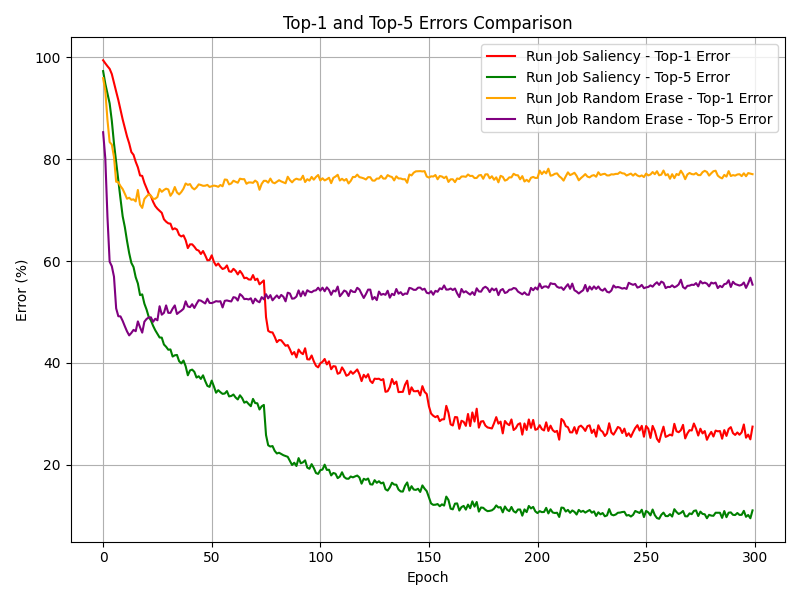
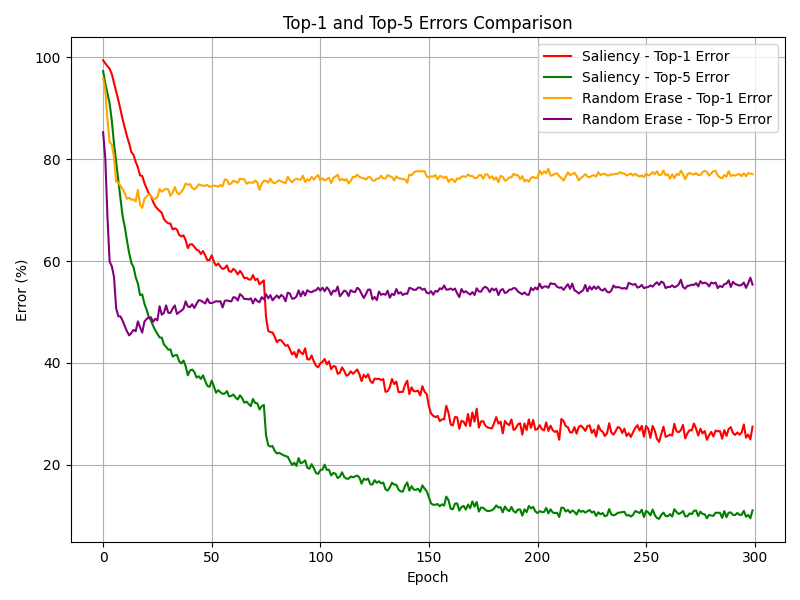
eval_plots

Changed region(s): [[0.5938, 0.06, 0.9688, 0.21]]

diff --git a/compare_plots.py b/compare_plots.py
@@ -30,8 +30,8 @@ def convert_error_to_accuracy(top1_err, top5_err):
 # Function to plot loss
 def plot_loss(epochs1, loss1, epochs2, loss2, output_path):
     plt.figure(figsize=(8, 6))
-    plt.plot(epochs1, loss1, label="Run Job Saliency - Loss", color="blue")
-    plt.plot(epochs2, loss2, label="Run Job Random Erase - Loss", color="orange")
+    plt.plot(epochs1, loss1, label="Saliency - Loss", color="blue")
+    plt.plot(epochs2, loss2, label="Random Erase - Loss", color="orange")
     plt.xlabel("Epoch")
     plt.ylabel("Loss")
     plt.title("Train Loss Comparison")
@@ -45,10 +45,10 @@ def plot_loss(epochs1, loss1, epochs2, loss2, output_path):
 # Function to plot errors
 def plot_error(epochs1, top1_err1, top5_err1, epochs2, top1_err2, top5_err2, output_path):
     plt.figure(figsize=(8, 6))
-    plt.plot(epochs1, top1_err1, label="Run Job Saliency - Top-1 Error", color="red")
-    plt.plot(epochs1, top5_err1, label="Run Job Saliency - Top-5 Error", color="green")
-    plt.plot(epochs2, top1_err2, label="Run Job Random Erase - Top-1 Error", color="orange")
-    plt.plot(epochs2, top5_err2, label="Run Job Random Erase - Top-5 Error", color="purple")
+    plt.plot(epochs1, top1_err1, label="Saliency - Top-1 Error", color="red")
+    plt.plot(epochs1, top5_err1, label="Saliency - Top-5 Error", color="green")
+    plt.plot(epochs2, top1_err2, label="Random Erase - Top-1 Error", color="orange")
+    plt.plot(epochs2, top5_err2, label="Random Erase - Top-5 Error", color="purple")
     plt.xlabel("Epoch")
     plt.ylabel("Error (%)")
     plt.title("Top-1 and Top-5 Errors Comparison")
@@ -62,10 +62,10 @@ def plot_error(epochs1, top1_err1, top5_err1, epochs2, top1_err2, top5_err2, out
 # Function to plot accuracies
 def plot_accuracy(epochs1, top1_acc1, top5_acc1, epochs2, top1_acc2, top5_acc2, output_path):
     plt.figure(figsize=(8, 6))
-    plt.plot(epochs1, top1_acc1, label="Run Job Saliency - Top-1 Accuracy", color="blue")
-    plt.plot(epochs1, top5_acc1, label="Run Job Saliency - Top-5 Accuracy", color="cyan")
-    plt.plot(epochs2, top1_acc2, label="Run Job Random Erase - Top-1 Accuracy", color="orange")
-    plt.plot(epochs2, top5_acc2, label="Run Job Random Erase - Top-5 Accuracy", color="purple")
+    plt.plot(epochs1, top1_acc1, label="Saliency - Top-1 Accuracy", color="blue")
+    plt.plot(epochs1, top5_acc1, label="Saliency - Top-5 Accuracy", color="cyan")
+    plt.plot(epochs2, top1_acc2, label="Random Erase - Top-1 Accuracy", color="orange")
+    plt.plot(epochs2, top5_acc2, label="Random Erase - Top-5 Accuracy", color="purple")
     plt.xlabel("Epoch")
     plt.ylabel("Accuracy (%)")
     plt.title("Top-1 and Top-5 Accuracies Comparison")
